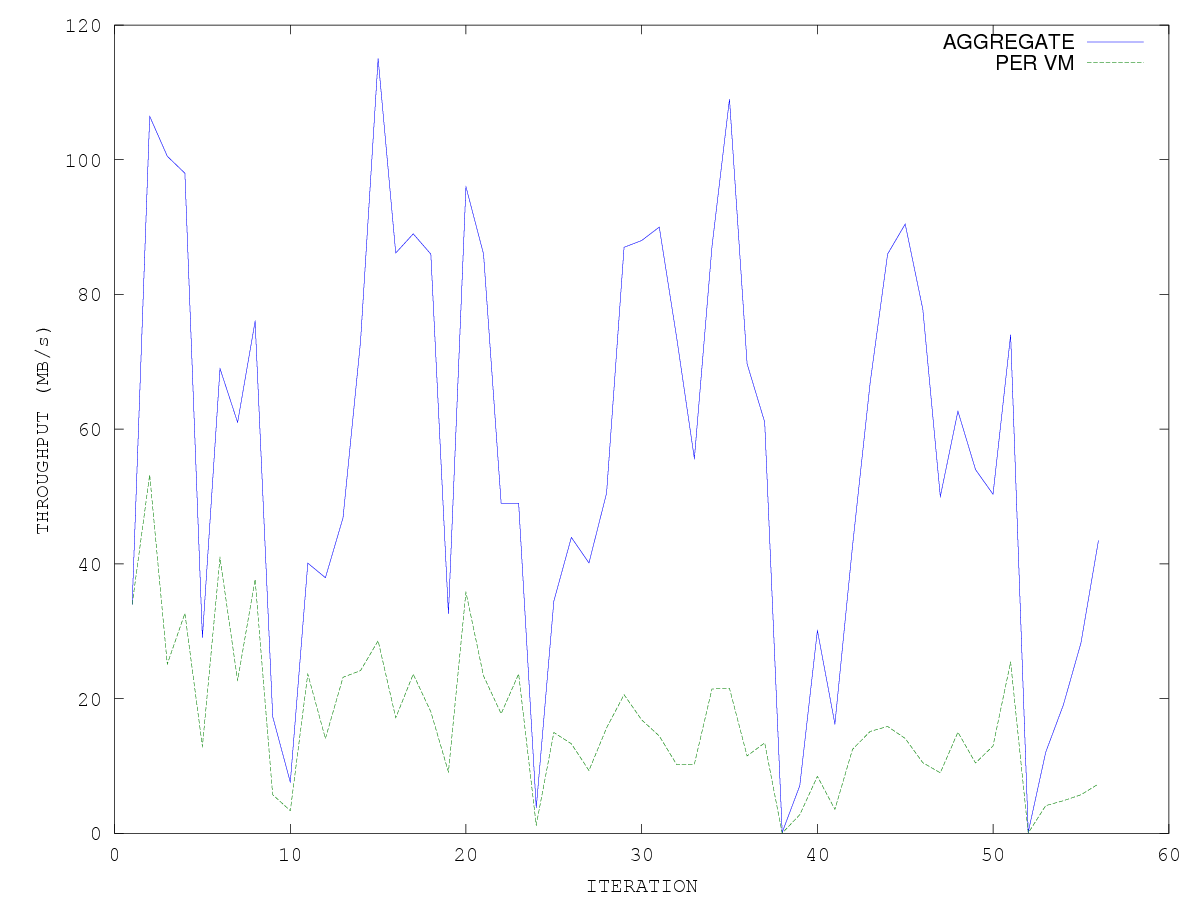
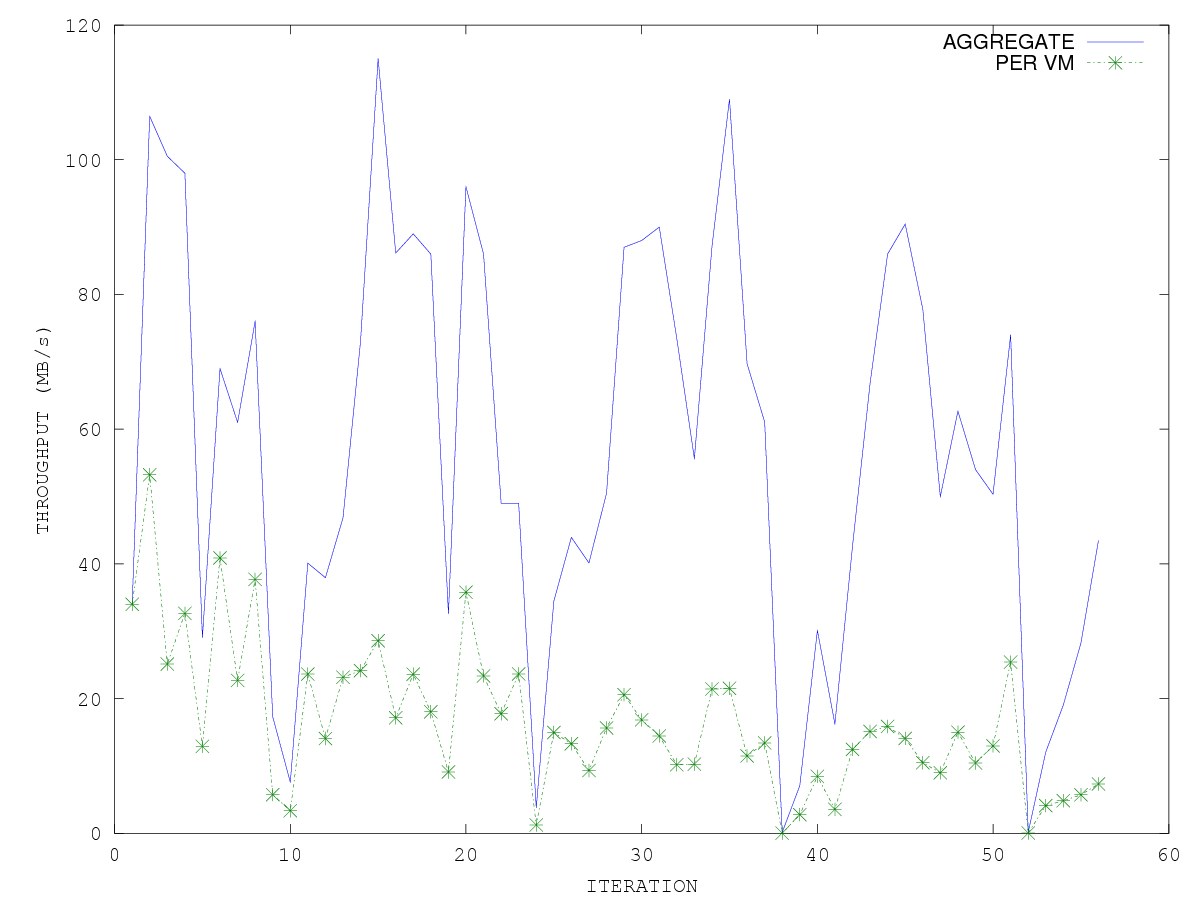
genplot

diff --git a/log/old/aggregate/20-80-180/genplot.m b/log/old/aggregate/20-80-180/genplot.m
@@ -17,12 +17,13 @@ figure;
 x = -10:0.1:10;
 %plot (x, sin (x));
 %plot(A(:,:))
-plot(A(:,[1, 5]));
+plot(A(:,[1]));
+%plot(A(:,[1, 5]));
 %plot(A(:,1:5))
 %plot(RTTs, Ns)
 xlabel('ITERATION');
 ylabel('VM WINDOW');
-legend('VM WINDOW', 'THRESHOLD');
+%legend('VM WINDOW', 'THRESHOLD');
 
 %image = "lf-0-r1";
 %print -deps $image.eps
@@ -33,7 +34,7 @@ saveas (1, strcat(output, ".emf"));
 figure;
 output = strcat(prefix, ".bw");
 x = 1:1:length(A);
-plot(x, A(:,2)/1000000, x, A(:,3)/1000000, '--');
+plot(x, A(:,2)/1000000, x, A(:,3)/1000000, '-.*');
 %plot(A(:,2:3)/1000000);
 xlabel('ITERATION');
 ylabel('THROUGHPUT (MB/s)');
